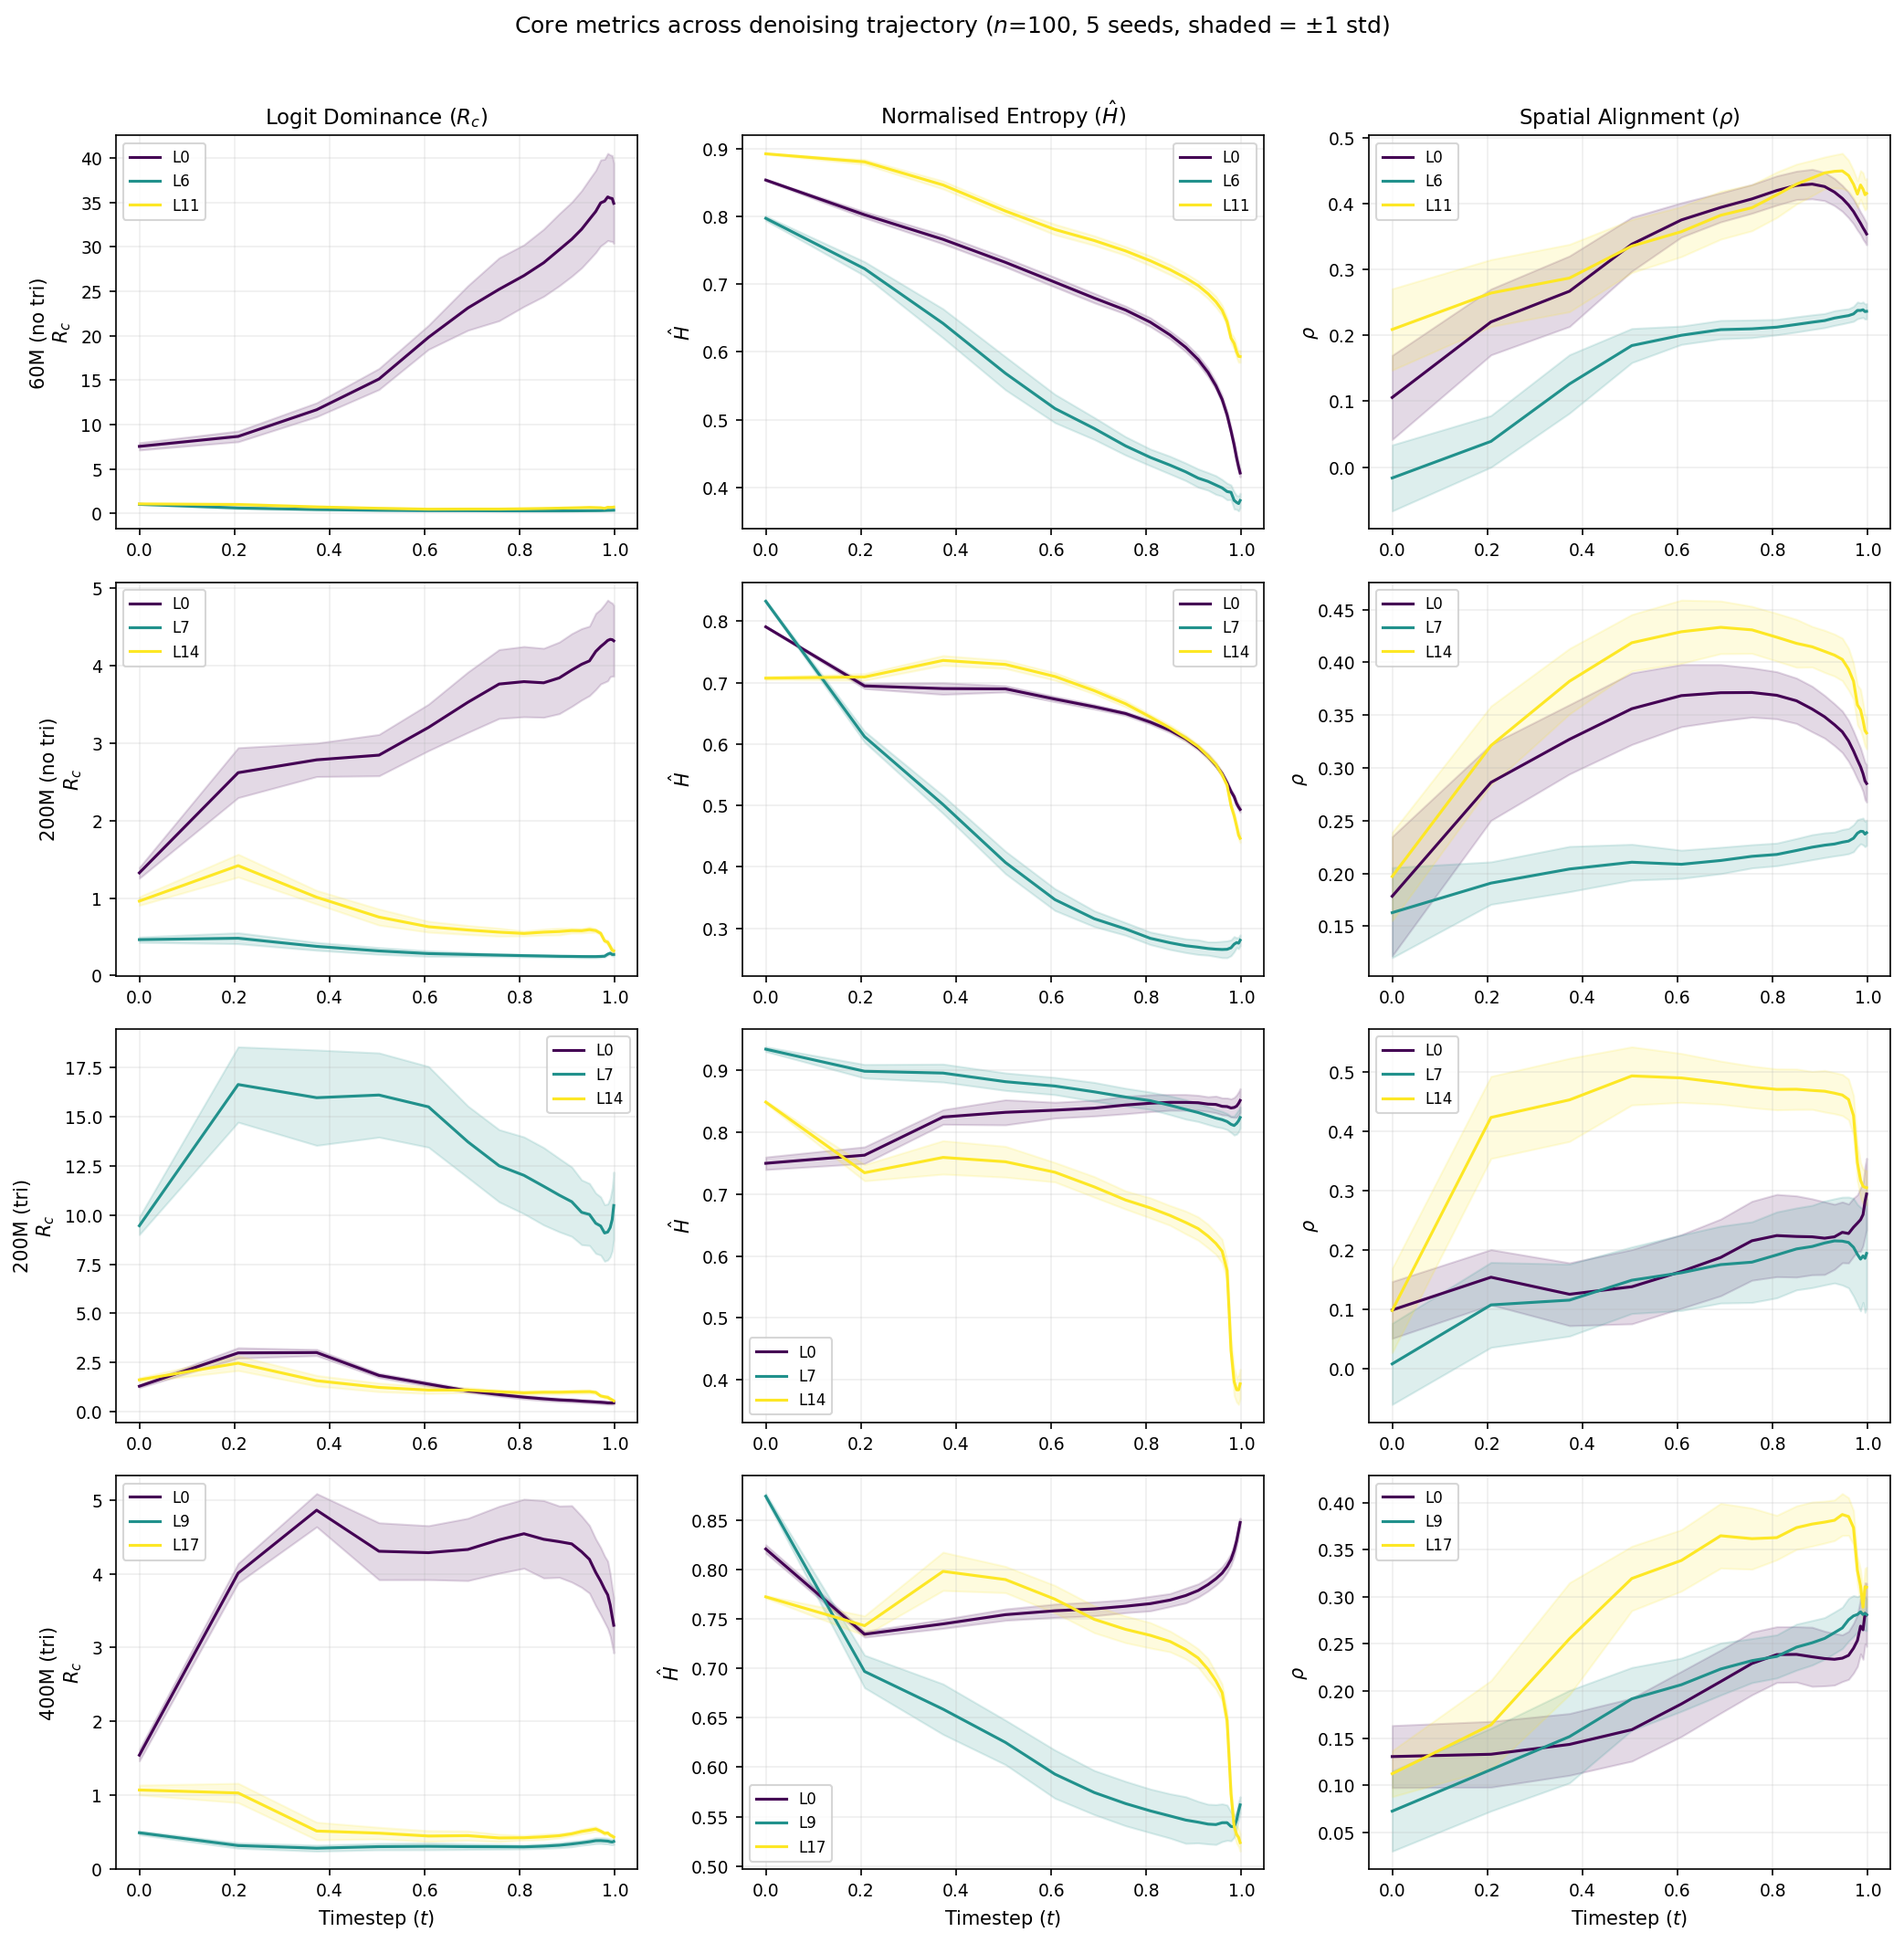
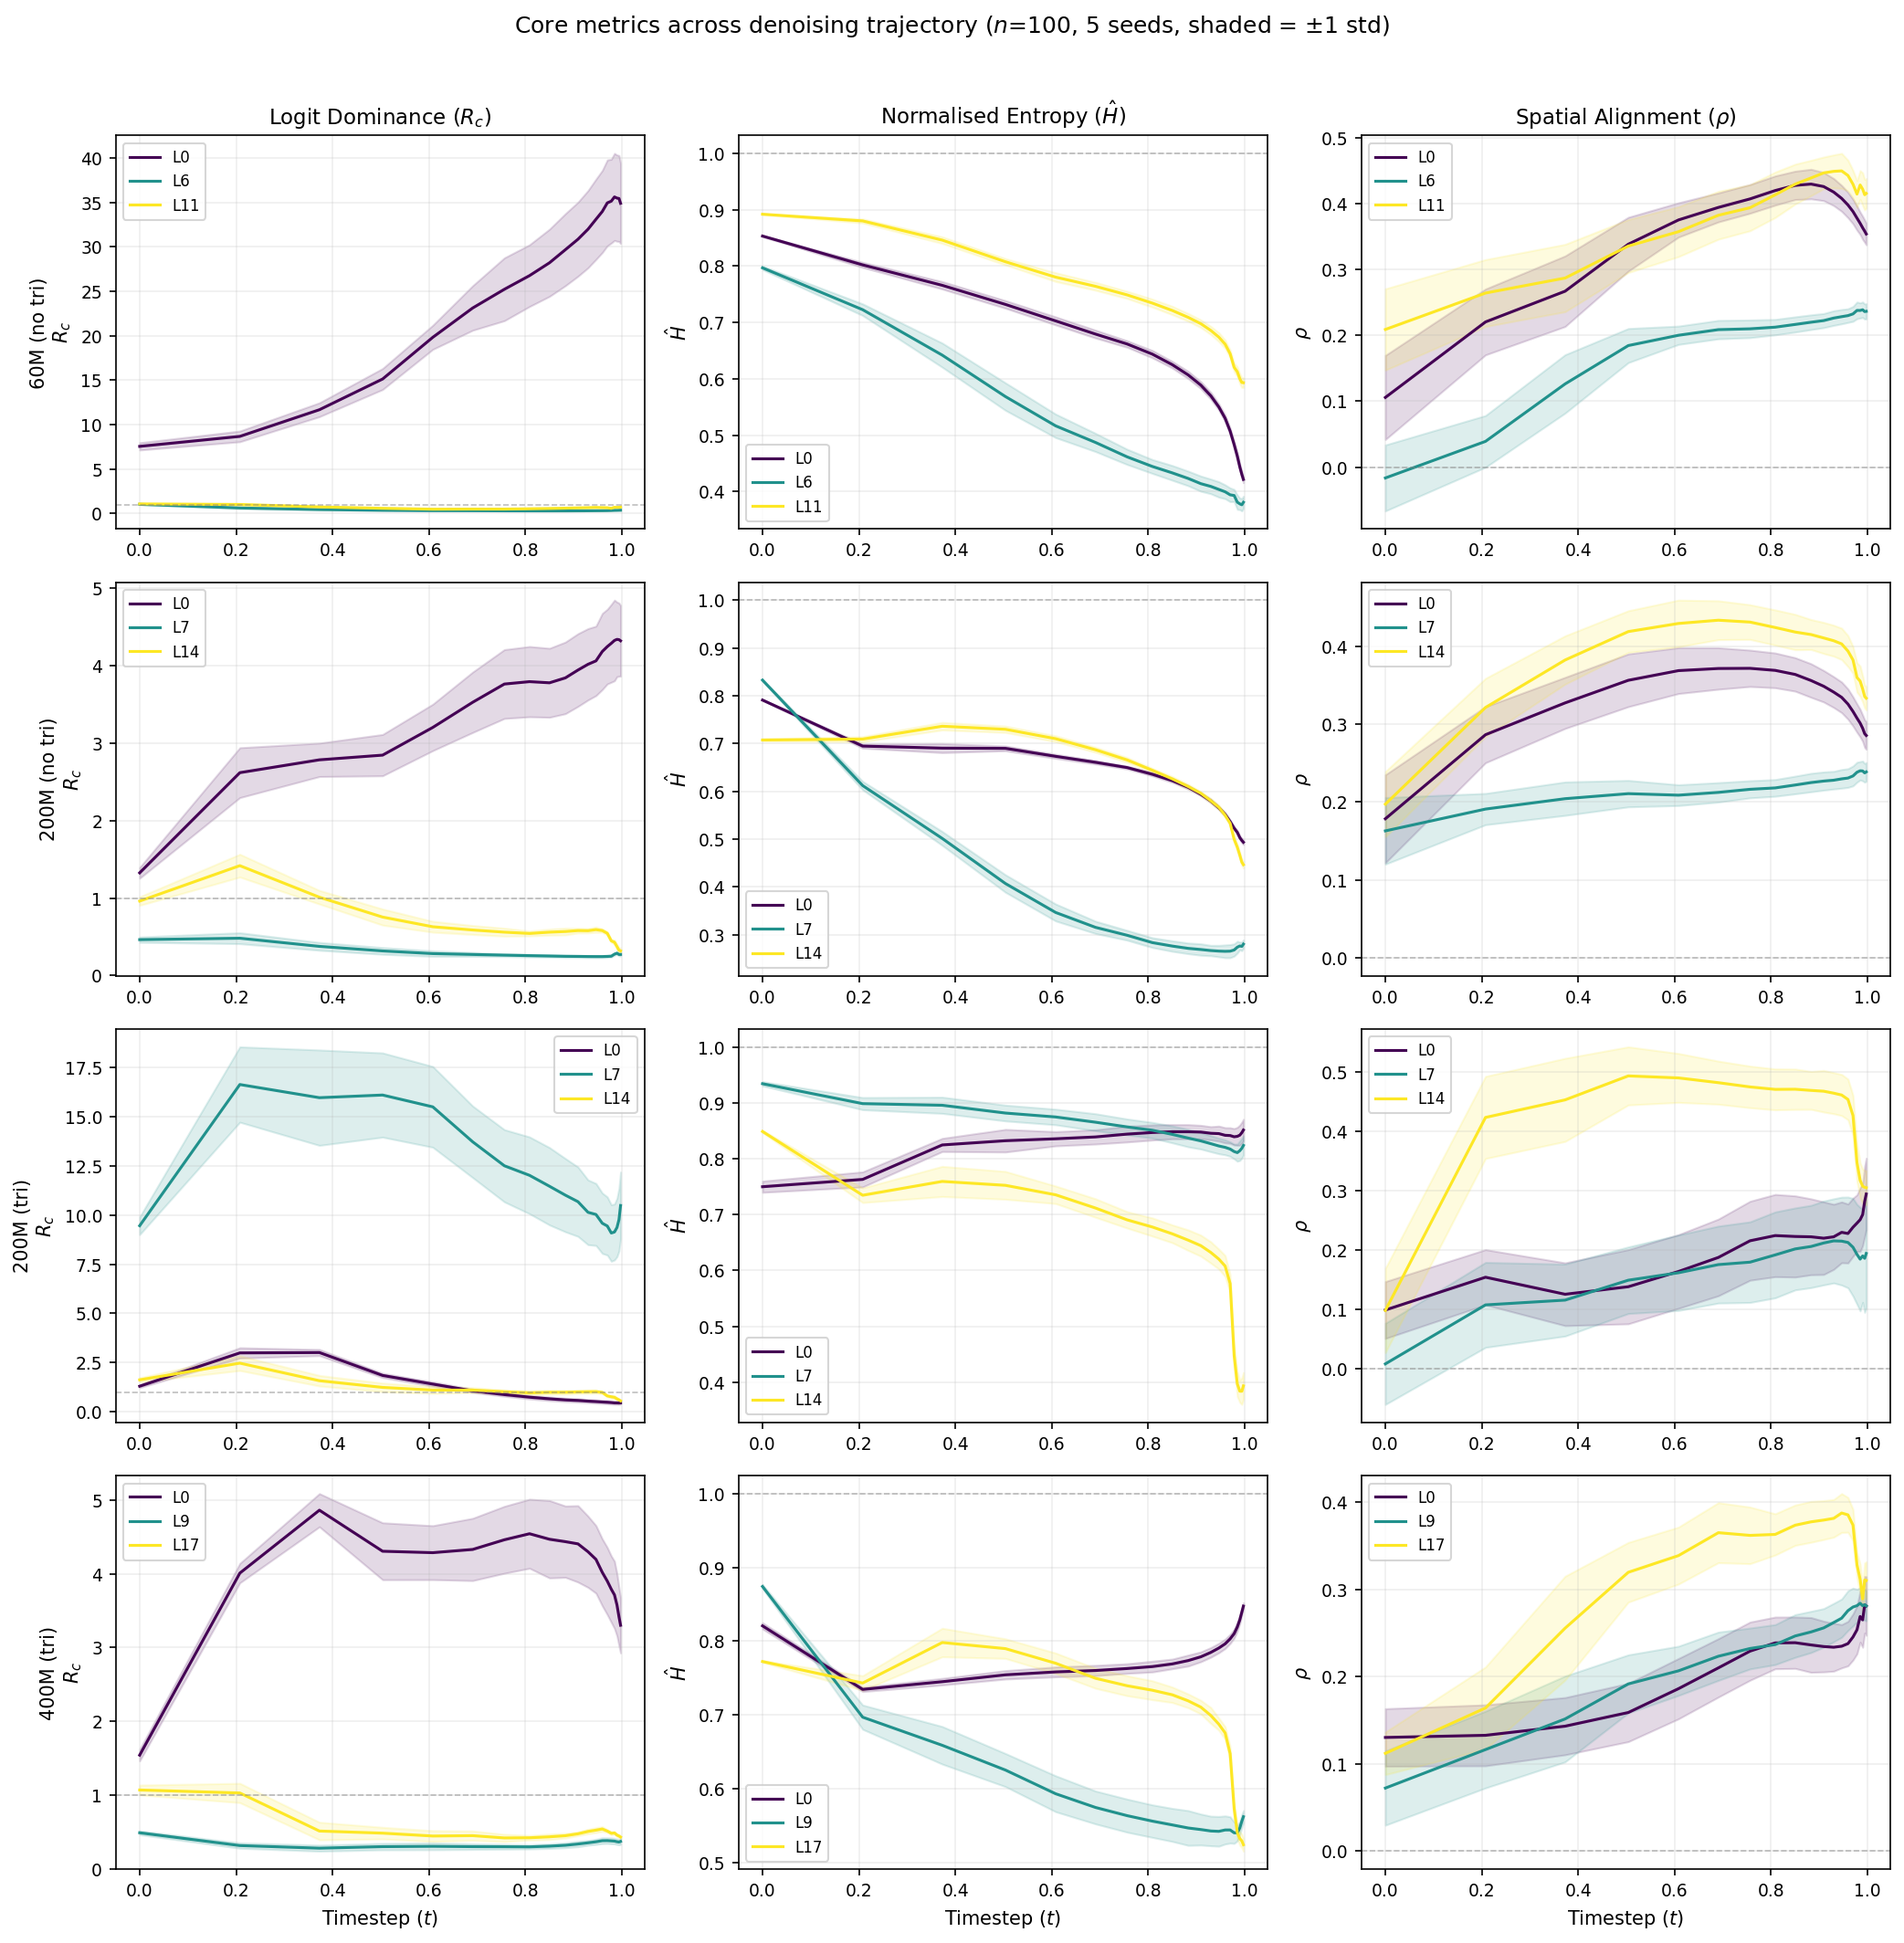
Add baselines to all figures
- Compute random contact precision baseline per model from generated PDBs
  (contact density with |i-j|>=6, <0.8nm): 60M=1.3%, 200M-notri=1.6%,
  200M-tri=2.7%, 400M-tri=3.3%
- Add reference lines: R_c=1 (balanced), H=1 (uniform), rho=0 (no correlation)
- Add random precision dashed line to contact precision plots

diff --git a/experiments/run_descriptive.py b/experiments/run_descriptive.py
@@ -53,6 +53,43 @@ MODEL_CONFIGS = {
 }
 
 
+def _compute_random_precision(pdb_path: Path, min_seqsep: int = 6,
+                               contact_thresh: float = 0.8):
+    """Compute random contact precision baseline from a PDB file.
+
+    Random precision = num_contacts / num_eligible_pairs, where contacts
+    are CA-CA distance < contact_thresh nm with |i-j| >= min_seqsep.
+    This is the expected Precision@k for random attention rankings.
+    """
+    # Parse CA coordinates from PDB (coordinates in Angstroms, convert to nm)
+    ca_coords = []
+    with open(pdb_path) as f:
+        for line in f:
+            if line.startswith(("ATOM", "HETATM")) and line[12:16].strip() == "CA":
+                x = float(line[30:38])
+                y = float(line[38:46])
+                z = float(line[46:54])
+                ca_coords.append([x / 10.0, y / 10.0, z / 10.0])  # A -> nm
+    if len(ca_coords) < min_seqsep + 1:
+        return None
+    coords = np.array(ca_coords)
+    n = len(coords)
+
+    # Pairwise distances
+    diff = coords[:, None, :] - coords[None, :, :]
+    dists = np.sqrt((diff ** 2).sum(axis=-1))
+
+    # Eligible pairs: upper triangle with |i-j| >= min_seqsep
+    i_idx, j_idx = np.meshgrid(np.arange(n), np.arange(n), indexing='ij')
+    eligible = (j_idx - i_idx) >= min_seqsep
+    num_eligible = eligible.sum()
+    num_contacts = ((dists < contact_thresh) & eligible).sum()
+
+    if num_eligible == 0:
+        return None
+    return num_contacts / num_eligible
+
+
 def run(model: str, output_dir: Path, seeds: list = SEEDS):
     """Run crystallization analysis for each seed."""
     cfg = MODEL_CONFIGS[model]
@@ -186,6 +223,19 @@ def aggregate(model: str, output_dir: Path, seeds: list = SEEDS):
         print(f"  B-only: {pb.mean():.3f} +/- {pb.std():.3f}")
         print(f"  C-only: {pc.mean():.3f} +/- {pc.std():.3f}")
 
+    # Compute random precision baseline from generated structures
+    all_random_prec = []
+    for seed in seeds[:n_seeds]:
+        pdb_path = output_dir / f"seed_{seed}" / "generated_structure.pdb"
+        if pdb_path.exists():
+            rp = _compute_random_precision(pdb_path, min_seqsep=6, contact_thresh=0.8)
+            if rp is not None:
+                all_random_prec.append(rp)
+    if all_random_prec:
+        rp_arr = np.array(all_random_prec)
+        print(f"\nRandom baseline (contact density, |i-j|>=6, <0.8nm):")
+        print(f"  {rp_arr.mean():.4f} +/- {rp_arr.std():.4f}")
+
     # Save aggregated
     agg_path = output_dir / "aggregated.npz"
     save_dict = {
@@ -215,6 +265,10 @@ def aggregate(model: str, output_dir: Path, seeds: list = SEEDS):
         save_dict['prec_b_std'] = prec_b.std(axis=0)
         save_dict['prec_c_mean'] = prec_c.mean(axis=0)
         save_dict['prec_c_std'] = prec_c.std(axis=0)
+    if all_random_prec:
+        rp_arr = np.array(all_random_prec)
+        save_dict['random_precision_mean'] = rp_arr.mean()
+        save_dict['random_precision_std'] = rp_arr.std()
     np.savez(str(agg_path), **save_dict)
     print(f"\nAggregated metrics saved to {agg_path}")
 

diff --git a/experiments/plot_figures.py b/experiments/plot_figures.py
@@ -127,6 +127,11 @@ def fig1_trajectory(models: Dict[str, dict], output_dir: Path):
         if 'rho_mean' in d:
             axes[row, 2].set_ylabel('$\\rho$')
 
+        # Reference lines
+        axes[row, 0].axhline(y=1.0, color='grey', linestyle='--', linewidth=0.8, alpha=0.5)
+        axes[row, 1].axhline(y=1.0, color='grey', linestyle='--', linewidth=0.8, alpha=0.5)
+        axes[row, 2].axhline(y=0.0, color='grey', linestyle='--', linewidth=0.8, alpha=0.5)
+
         for col in range(3):
             axes[row, col].legend(loc='best')
             axes[row, col].grid(True, alpha=0.2)
@@ -237,6 +242,16 @@ def fig3_contact_precision(models: Dict[str, dict], output_dir: Path):
             axes[row, col].grid(True, alpha=0.2)
             axes[row, col].legend(fontsize=7)
             axes[row, col].set_ylim(bottom=0)
+
+            # Random baseline
+            rp = d.get('random_precision_mean', None)
+            if rp is not None:
+                rp_val = float(rp)
+                axes[row, col].axhline(y=rp_val, color='grey', linestyle='--',
+                                        linewidth=0.8, alpha=0.6)
+                if col == 0:
+                    axes[row, col].text(0.02, rp_val + 0.005, f'random={rp_val:.3f}',
+                                         fontsize=6, color='grey', alpha=0.8)
 
         axes[row, 0].set_ylabel(f'{MODEL_LABELS[model]}\nPrecision@$L/5$')
 
